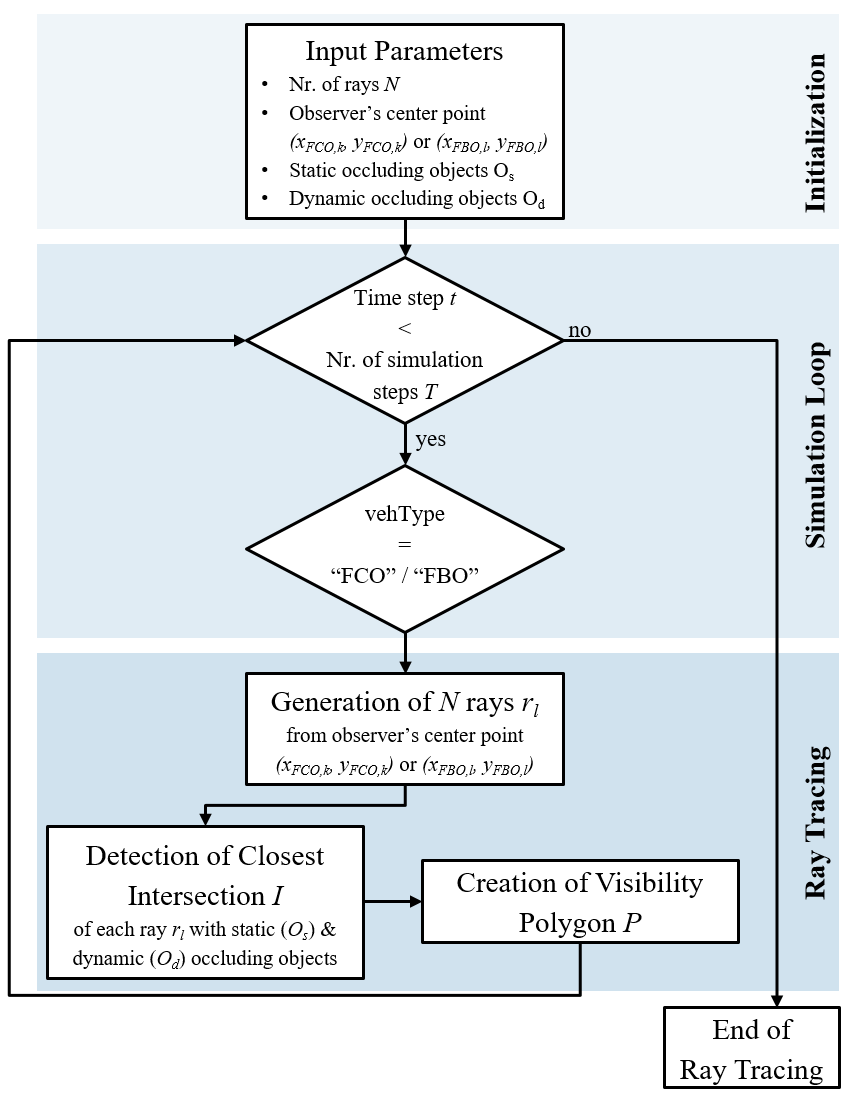
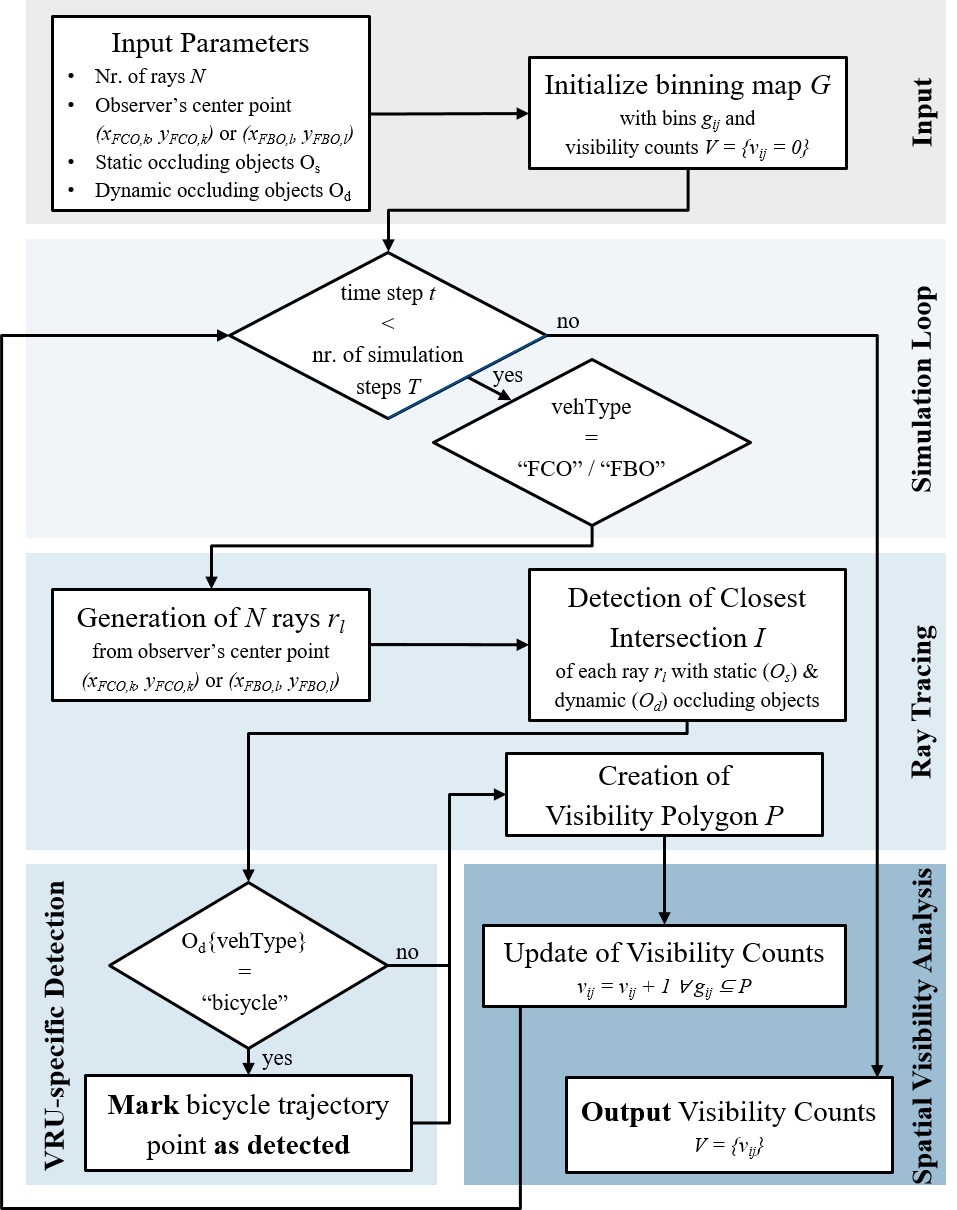
readme

diff --git a/README.md b/README.md
@@ -1,14 +1,20 @@
 # FTO-Sim
 
+## Introduction
+
 *FTO-Sim* is an open-source simulation framework for Floating Traffic Observation (FTO) that integrates SUMO traffic simulation with advanced ray tracing techniques to analyze the visibility coverage of Floating Car Observers (FCOs) and Floating Bike Observers (FBOs) in urban environments. The framework enables comprehensive evaluation of cooperative perception systems and their effectiveness in detecting vulnerable road users.
 
 The FTO concept is adapted from the Floating Car Observer (FCO) method, utilizing extended floating car data (xFCD) for traffic planning and traffic management purposes. Additionally, *FTO-Sim* introduces further observer vehicle types, such as Floating Bike Observers (FBO).
+
+## About This Documentation
+
+This README file serves as comprehensive documentation for *FTO-Sim*, combining methodological explanations of the framework with practical user instructions. It provides detailed descriptions of the ray tracing algorithm and subsequent evaluation metrics, alongside step-by-step configuration guides, usage examples, and implementation details.
 
 ## Table of Contents
 1. [Citation](#citation)
 2. [Features](#features)
 3. [Configuration](#configuration)
-4. [Ray Tracing Methodology](#ray-tracing-methodology)
+4. [Ray Tracing](#ray-tracing)
 5. [Data Collection and Logging](#data-collection-and-logging)
 6. [Evaluation Metrics](#evaluation-metrics)
 7. [Installation / Prerequisites](#installation--prerequisites)
@@ -20,155 +26,203 @@ The FTO concept is adapted from the Floating Car Observer (FCO) method, utilizin
 ## Citation
 When using *FTO-Sim*, please cite the following references:
 
-### Primary Citation
-* **Ilic, L., et al.** "FTO-Sim: An Open-Source Framework for Evaluating Cooperative Perception in Urban Areas." *European Transport Research Review*, 2024. *(Publication pending)*
+### Primary Reference
 
-This paper provides the comprehensive methodological foundation of the FTO-Sim framework, including detailed descriptions of the ray tracing algorithms, cooperative perception analysis, and validation studies.
+* **Ilic, M., et al.** "FTO-Sim: An Open-Source Framework for Evaluating Cooperative Perception in Urban Areas." *European Transport Research Review*, 2024. *(Publication pending - [Link will be available upon publication])*
+
+This paper presents the current version of the FTO-Sim framework with comprehensive methodological foundations and explanations about implemented evaluation metrics. Besides *spatial visibility analysis*, additional evaluation metrics, including *VRU-specific detection*, are implemented and described. Furthermore, the paper introduces simulation examples included in *FTO-Sim*, that enable a fast applpication of the simulation framework for other users.
 
 ### Secondary References
-* [Introduction of FTO-Sim](https://www.researchgate.net/publication/383272173_An_Open-Source_Framework_for_Evaluating_Cooperative_Perception_in_Urban_Areas) includes a detailed description of the general features of the simulation framework. Furthermore, a first application (visibility analysis) of *FTO-Sim* is included to further calibrate the Level of Visibility (LoV) metric, originally introduced by [Pechinger et al.](https://www.researchgate.net/publication/372952261_THRESHOLD_ANALYSIS_OF_STATIC_AND_DYNAMIC_OCCLUSION_IN_URBAN_AREAS_A_CONNECTED_AUTOMATED_VEHICLE_PERSPECTIVE).
+
+* [**Ilic, M., et al.**](https://www.researchgate.net/publication/383272173_An_Open-Source_Framework_for_Evaluating_Cooperative_Perception_in_Urban_Areas) "An Open-Source Framework for Evaluating Cooperative Perception in Urban Areas." *Transportation Research Board 104th Annual Meeting*, Washington D.C., 2025. *(Accepted for presentation)*
+
+This paper introduces the initial version of FTO-Sim with a first implementation of spatial visibility analysis metrics. It presents the foundational occlusion modeling approach and demonstrates the framework's capability for analyzing relative visibility patterns and the Level of Visibility (LoV),  originally introduced by [Pechinger et al.](https://www.researchgate.net/publication/372952261_THRESHOLD_ANALYSIS_OF_STATIC_AND_DYNAMIC_OCCLUSION_IN_URBAN_AREAS_A_CONNECTED_AUTOMATED_VEHICLE_PERSPECTIVE). Through a case study, potential for further calibration of the LoV metric have been identified.
 
 ## Features
-The following sub-chapters elaborate on the different modules and functionalities of *FTO-Sim*, which are summarized in the figure below.
+The following sub-chapters elaborate on the different modules and functionalities of *FTO-Sim*, which are organized in a modular workflow as illustrated in the figure below.
 
-![Overview of the FTO-Sim Framework Architecture](readme_images/framework_features.png)
+![FTO-Sim Framework Architecture](readme_images/framework_features.png)
+*Figure 1: Workflow of FTO-Sim*
 
-### Core Functionality
-- **SUMO Integration**: Seamless connection to SUMO traffic simulation via TraCI
-- **Ray Tracing Engine**: Advanced visibility analysis with configurable parameters
-- **Multi-Observer Support**: FCO and FBO observer types with customizable penetration rates
-- **Geospatial Data Integration**: Support for OpenStreetMap and GeoJSON road network data
-- **Performance Optimization**: Multi-threading and optional GPU acceleration support
-- **Comprehensive Data Logging**: Detailed simulation metrics and trajectory data export
+### Framework Modules
 
-### Input Data
+The FTO-Sim framework consists of six core modules that work together to provide comprehensive cooperative perception analysis:
 
-*FTO-Sim* makes use of three different input data types:
+#### 1. Input Data Processing
+*FTO-Sim* integrates three primary data sources to create and visualize a comprehensive urban simulation scene:
 
-1. **SUMO Simulation Files**
-   - Network files (`.net.xml`)
-   - Route/demand files (`.rou.xml`) 
-   - Configuration files (`.sumocfg`)
-   - Additional infrastructure files (`.add.xml`)
-   
-   SUMO and its interface TraCI (Traffic Control Interface) are used to retrieve the location of every static and dynamic road user for each time step of the simulation. Parked vehicles are considered static road users, while vehicular traffic, as well as VRUs (pedestrians and cyclists), are considered dynamic road users.
+- **SUMO Simulation**: *FTO-Sim* communicates with a microscopic traffic simulation using SUMO and its integrated TraCI interface (Traffic Control Interface) to retrieve the positions of all static and dynamic road users at each simulation time step. Parked vehicles are treated as static road users, while vehicular traffic and VRUs are treated as dynamic road users. *FTO-Sim* is expecting the path to a SUMO configuration file (`.sumocfg`), which it will use for live communication with the traffic simulation through the TraCI interface to retrieve information from the SUMO network file (`.net.xml`), traffic demand files (`.rou.xml`) and additional files (`.add.xml`).
 
-2. **OpenStreetMap (OSM) Data**
-   - Building geometries and locations
-   - Urban greenery (parks, trees)
-   - Traffic infrastructure elements
-   
-   Shapes and locations of static infrastructure elements, such as buildings, are retrieved from OSM. Furthermore, shapes and locations of urban greenery, such as parks and trees, are obtained from OSM.
+- **OpenStreetMap (OSM) Data**: Additionally, *FTO-Sim* loads static infrastructure elements, such as buildings or urban greenery (e.g. parks and trees) from OSM, which will be considered during the ray tracing simulation (see [Ray Tracing](#ray-tracing)).
 
-3. **GeoJSON Files** *(optional)*
-   - Road space distribution visualization
-   - Carriageways, parking areas, bicycle lanes
-   - Pedestrian walkways
-   
-   If available, *FTO-Sim* makes use of GeoJSON files containing the road space distribution of the simulated scene for visualization purposes only.
+- **GeoJSON Files** *(optional)*: If available, a GeoJSON file can be used by *FTO-Sim* to visualize the distribution of road space to support a faster understanding of the simulated scene.
+
+#### 2. Coordinate Transformation
+After loading all spatial input data, *FTO-Sim* performs automated coordinate system transformations to ensure spatial consistency between different data sources. This module handles conversions between SUMO's local coordinate system, WGS84 geographic coordinates (from OSM and GeoJSON), and projected coordinate systems (UTM) for accurate geometric calculations.
+
+#### 3. Configuration & Initialization
+*FTO-Sim* offers a wide range of functionalities and allows customization of, amongst others, essential simulation parameters such as the spatial extent of the simulated scene (bounding box), warm-up duration of the SUMO simulation, observer penetration rates, and the number and length of rays generated during ray tracing. Based on this user-defined configuration (see [Configuration](#configuration)), *FTO-Sim* initializes the simulation and performs the ray tracing method for every observer vehicle.
+
+#### 4. Ray Tracing Engine
+Based on the provided input data and configuration settings, *FTO-Sim* performs the ray tracing method for every observer vehicle (FCO and FBO) to determine the final field of view (FoV) of each observer. The module performs 360-degree ray generation around observer vehicles and intersects each ray with static (buildings, trees, etc.) and dynamic objects (other road users) to account for occlusion effects in the simulated scene.
+
+Key configurable features include (see [Usage](#usage)):
+- **Ray Parameters**: Number of rays (e.g., 360 rays for 1° resolution) and maximum ray length (typically set to 30 meters)
+- **Performance Options**: Multi-threaded processing with optional GPU acceleration
+- **Visualization Capabilities**: Real-time ray tracing visualization during run-time or video generation and saving for later demonstration purposes
+
+Connecting the endpoints of all (occluded and non-occluded) rays forms the visibility polygon, which reresents the final FoV of an observer vehicle. For detailed methodological explanations of the ray tracing nodule, ray intersection, and visibility polygon generation, see [Ray Tracing](#ray-tracing).
+
+#### 5. Data Logging
+The comprehensive data collection system captures detailed simulation values throughout the ray tracing process. *FTO-Sim* generates multiple structured CSV log files, each containing specific data categories for comprehensive analysis. Data is logged in real-time during simulation with consistent coordinate systems (UTM) and temporal resolution.
+
+**Generated Log Files:**
+
+- **`summary_log_*.csv`**: Simulation overview with configuration parameters, overall simulation statistics and performance metrics
+- **`log_fleet_composition_*.csv`**: Vehicle fleet composition with number of generated and currently in the simulation present vehicles per vehicle type (for each simulation time step)
+- **`log_vehicle_trajectories_*.csv`**: Motorized vehicle trajectory data including position, speed, acceleration, distance traveled, distance to leader/follower vehicles, distance to next traffic light and detection information (for each time step)
+- **`log_bicycle_trajectories_*.csv`**: Bicycle trajectory data including position, speed, acceleration, distance traveled, distance to next traffic light and detection information (for each time step)
+- **`log_detections_*.csv`**: Detection events between observers and bicycles including coordinates, distances, and vehicle speeds (of observers and observed road users)
+- **`log_traffic_lights_*.csv`**: Traffic light information including phases, queue lengths, waiting times, and signal state changes (for each time step)
+- **`log_conflicts_*.csv`**: SUMO-native conflict analysis data including time-to-collision (TTC), post-encroachment-time (PET), and deceleration to avoid crash (DRAC) metrics
+
+For detailed information about data analysis and processing, see [Data Collection and Logging](#data-collection-and-logging).
+
+#### 6. Evaluation Metrics
+Post-processing analysis modules that generate evaluation metrics from logged simulation data (see [Evaluation Metrics](#evaluation-metrics)):
+
+- **Spatial Visibility Analysis**: Generates heat maps and statistical measures of visibility coverage across the study area, including relative visibility patterns and level of visibility (LoV) assessments.
+
+- **VRU-Specific Detection**: Analyzes detection performance for VRUs including spatio-temporal detection rates and a specific focus to critical interaction areas.
 
 ## Configuration
 
 *FTO-Sim* offers users a wide range of functionalities that can be individually configured before initializing the framework. This enables a customized use of the offered functionalities, depending on the individual needs of users. All configuration is done by editing the [`main.py`](Scripts/main.py) script.
 
-### Essential Settings
+### General Settings
 
-#### Observer Configuration
+#### Simulation Identification Settings
 ```python
-# Observer penetration rates (0.0 to 1.0)
-FCO_share = 0.25    # 25% of vehicles become FCOs
-FBO_share = 0.10    # 10% of bicycles become FBOs
+# Change this tag to distinguish different simulation runs with e.g. same configuration
+file_tag = 'individual_tag'  # outputted files will be tagged with "_{file_tag}_FCO{FCO-penetration-rate}_FBO{FBO-penetration-rate}"
 ```
 
-Every generated vehicle and/or bicycle in the SUMO simulation is assigned a random number from a uniform distribution ranging between [0, 1]. If this number is below the defined FCO/FBO penetration rate, the vehicle or bicycle is assigned the vehicle type 'floating car observer' or 'floating bike observer', respectively.
-
-#### Ray Tracing Parameters
+#### Performance Optimization Settings
 ```python
-numberOfRays = 360          # Number of rays per observer (higher = more precise)
-radius = 30                 # Maximum ray tracing distance in meters
-grid_size = 10              # Grid size for visibility heat map (meters)
+# Choose performance optimization level based on your system capabilities:
+# - "none": Single-threaded processing (best performing for very small scenarios)
+# - "cpu": Multi-threaded CPU processing (best performing for intermediate scenarios)
+# - "gpu": CPU multi-threading + GPU acceleration (best performing for large scenarios, requires NVIDIA GPU with CUDA/CuPy)
+performance_optimization_level = "cpu"
+max_worker_threads = None  # None = auto-detect optimal thread count, or specify number (e.g., 4, 8)
 ```
 
-#### Study Area Definition
+#### Path Settings
 ```python
-# Bounding box coordinates (WGS84 format)
-north, south, east, west = 48.1505, 48.14905, 11.5720, 11.5669
+base_dir = os.path.dirname(os.path.abspath(__file__))
+parent_dir = os.path.dirname(base_dir)
+# Path to SUMO config-file
+sumo_config_path = os.path.join(parent_dir, 'simulation_examples', 'Ilic_ETRR_single-FCO', 'osm_small_3d.sumocfg') # Ilic_ETRR_2025
+# Path to GeoJSON fle (optional)
+geojson_path = os.path.join(parent_dir, 'simulation_examples', 'Ilic_ETRR_single-FCO', 'TUM_CentralCampus.geojson') # Ilic_ETRR_2025
+```
+
+#### Geographic Bounding Box Settings
+```python
+# Geographic boundaries in longitude / latitude in EEPSG:4326 (WGS84)
+north, south, east, west = 48.15050, 48.14905, 11.57100, 11.56790 # Ilic_ETRR_2025
 bbox = (north, south, east, west)
 ```
 
-#### Simulation Timing
+#### Simulation Warm-up Settings
 ```python
-delay = 90          # Warm-up period in seconds
+delay = 0  # Warm-up time in seconds (no ray tracing during this period)
 ```
 
-#### File Paths
+### Ray Tracing Settings
+
+#### Observer Penetration Rate Settings
 ```python
-# Path Settings
-base_dir = os.path.dirname(os.path.abspath(__file__))
-parent_dir = os.path.dirname(base_dir)
-sumo_config_path = os.path.join(parent_dir, 'simulation_examples', 'example', 'osm.sumocfg')
-geojson_path = os.path.join(parent_dir, 'simulation_examples', 'example', 'roads.geojson')
+FCO_share = 1.0  # Floating Car Observers penetration rate (0.0 to 1.0)
+FBO_share = 0.0  # Floating Bike Observers penetration rate (0.0 to 1.0)
 ```
 
-### Visualization Options
+#### Ray Tracing Parameter Settings
 ```python
-useLiveVisualization = True         # Enable real-time visualization
-visualizeRays = False              # Show individual rays
-saveAnimation = False              # Export animation video
-useManualFrameForwarding = False   # Step-by-step debugging mode
+numberOfRays = 360  # Number of rays emerging from each observer vehicle
+radius = 30         # Ray radius in meters
+grid_size = 10      # Grid size for spatial visibility analysis (meters) - determines the resolution of LoV and realtive visibility heatmaps
 ```
 
-### Performance Settings
+### Visualization Settings
 ```python
-performance_optimization_level = 'cpu'  # Options: 'none', 'cpu', 'gpu'
-max_worker_threads = 4                   # Multi-threading configuration
+useLiveVisualization = True       # Show live visualization during simulation
+visualizeRays = True              # Show individual rays in visualization (besides resulting visibility polygon)
+useManualFrameForwarding = False  # Manual frame-by-frame progression (for debugging)
+saveAnimation = False             # Save animation as video file
 ```
 
-Available optimization levels:
-- **`'none'`**: Single-threaded processing (most compatible, but slower)
-- **`'cpu'`**: Multi-threaded CPU processing (recommended default)
-- **`'gpu'`**: CPU multi-threading + GPU acceleration (fastest, requires NVIDIA GPU with CUDA/CuPy)
+### Data Collection & Analysis Settings
 
-### Data Collection Settings
+#### Data Collection Settings
 ```python
 CollectLoggingData = True    # Enable detailed data logging
-file_tag = 'baseline_test'   # Unique identifier for simulation outputs
+basic_gap_bridge = 10        # Gap bridging for trajectory smoothing
+basic_segment_length = 3     # Minimum segment length for trajectories
 ```
 
-## Ray Tracing Methodology
+## Ray Tracing
 
-Based on the provided input data and configuration settings, *FTO-Sim* is initiated and performs the ray tracing method for every FCO and FBO. The following figure shows the working principle of the ray tracing method.
+Based on the input data provided and the configuration settings, the simulation framework is initiated and performs the ray tracing method for every FCO and FBO. In parallel, a binning map approach is used to update the visibility count of each bin included within an observer's FoV at every simulation time step. An overview of the ray tracing method and internal data gathering for subsequent evaluation purposes (spatial visibility analysis and VRU-specific detection) is given in the following figure.
 
 ![Ray Tracing Workflow](readme_images/ray_tracing_flowchart.png)
+*Figure 2: Workflow of the Ray Tracing Method*
 
-### Observer Detection Process
+### Methodology
 
-1. **Observer Assignment**: Vehicles and bicycles are randomly assigned observer roles based on configured penetration rates using a fixed random seed for reproducible results
+#### Initialization
+When initializing the ray tracing method, *FTO-Sim* loads the required input parameters and sets up a binning map that divides the simulated scene into equally sized squares, with each bin's visibility count initially set to zero. Besides the number and length of rays descending from an observer's center point, the bin size, which determines the resolution of the subsequent spatial visibility analyses, can be configured by the user (see [Configuration](#configuration)).
 
-2. **Ray Generation**: Each observer generates rays distributed in a 360° pattern within a specified radius:
-   - FCOs (Floating Car Observers): Passenger vehicles with observer capabilities
-   - FBOs (Floating Bike Observers): Bicycles with observer capabilities
+#### Simulation Loop and Observer Assignment
+Once the simulation loop starts, *FTO-Sim* checks the vehicle type of each road user within the predefined bounding box at each time step. After the warm-up phase and according to the specified FCO / FBO penetration rates, vehicles or bicycles are assigned the vehicle type 'floating car observer' or 'floating bike observer', thereby activating the ray tracing.
 
-3. **Occlusion Detection**: Rays are tested for intersections with:
-   - **Static objects**: Buildings, trees, barriers, infrastructure
-   - **Dynamic objects**: Moving vehicles, parked cars
+**Observer Types and Assignment Process:**
+Every generated vehicle and/or bicycle in the SUMO simulation is assigned a random number from a uniform distribution ranging between [0, 1]. If this number is below the defined FCO/FBO penetration rate, the vehicle or bicycle is assigned the vehicle type 'floating car observer' or 'floating bike observer', respectively.
+1. **FCOs (Floating Car Observers)**: Assignment of passenger cars based on configured FCO penetration rate using a fixed seed value for reproducible results
+2. **FBOs (Floating Bike Observers)**: Assignment of bicycles based on configured FBO penetration rate using a fixed seed value for reproducible results
 
-4. **Visibility Polygon Creation**: Ray endpoints form visibility polygons representing observable areas
+### Ray Tracing Algorithm
 
-Once the **simulation loop** is initiated, *FTO-Sim* will check the vehicle type of every road user within the previously defined bounding box for each time step of the simulation. After the initially defined warm-up phase and depending on the defined FCO / FBO penetration rates, vehicles or bicycles with the vehicle type 'floating car observer' or 'floating bike observer' will be randomly generated and thus activating the ray tracing.
+#### Ray Generation and Intersection Detection
+For each observer, the ray tracing module generates the previously configured number of rays descending from the observer's center point and extending up to the previously defined length of the rays (representing the theoretical detection range of an observer). The angle between the rays is equivalently sized to generate a non-occluded FoV around the observer. Rays intersecting with static or dynamic objects are cut to account for occlusion, and the endpoints of all rays are connected to form the visibility polygon representing the observer’s total FoV.
 
-The **ray tracing module** will generate the previously defined number of rays descending from every observer's center point up to a distance of 30 meters. The angle between the rays will be equivallently sized to generate a non-occluded field of view (FoV) in a circular form around the observer. Subsequently, the rays that intersect with static or dynamic objects are cut to obtain an observer's occluded FoV. Lastly, the endpoints of all rays are connected to create an observer's visibility polygon representing the area within an observer's total FoV.
+**Key Processing Steps:**
+1. **Ray Generation**: Each observer generates rays distributed in a 360° pattern within the specified radius (typically 30 meters)
+2. **Occlusion Detection**: Rays are systematically tested for intersections with:
+   - **Static objects**: Parked vehicles, obtained from SUMO, as well as buildings, trees, and further infrastructure elements obtained from OSM
+   - **Dynamic objects**: Road users (motorized vehicles and VRUs) obtained from SUMO
+3. **Ray Intersection**: Rays intersecting with static or dynamic objects are cut to account for occlusion effects
+4. **Visibility Polygon Creation**: The endpoints of all rays (both occluded and non-occluded) are connected to form the visibility polygon representing the observer's total FoV
 
-The following figure shows a visualization of the ray tracing method, both for FCOs (left) and FBOs (right). The rays emerging from the centerpoint of an observer are colored in blue when they are unobstructed and in red when they intersect with objects.
+#### Internal Data Collection for Spatial Visibility Analysis
+For spatial visibility analyses, the framework updates the binning map by increasing the visibility count of each bin within an observer's total FoV.
+
+#### Internal Data Collection for VRU-specific Detection
+If a ray intersects a dynamic object, the framework checks the object's vehicle type. If the object is a bicycle or pedestrian, the corresponding trajectory point is marked as detected for subsequent evaluation of VRU-specific detection.
+
+#### Internal Data Logging
+At the end of the simulation loop, the final visibility counts and marked bicycle trajectories are obtained.
+
+### Visualization and Output
+
+In addition to the numerical output, the framework offers flexible visualization options for the ray tracing method. Users can enable live visualization to directly observe the influence of static and dynamic occlusions on observer’s FoVs during runtime. Alternatively, the visualization can be exported as a video file, which allows for later inspection of detection events and facilitates communication of results. (see [Configuration](#configuration))
+
+A visualization of the ray tracing method is provided in Figure 3. The rays emerging from the center point of an observer are colored blue when they are unobstructed, and red when they intersect with objects.
 
 ![Ray Tracing Visualization](readme_images/ray_tracing.png)
+*Figure 3: Ray Tracing Visualization for an FCO (left) and an FBO (right)*
 
-### Field of View Calculation
-
-The framework calculates circular fields of view around each observer, accounting for:
-- **Static Occlusion**: Buildings, infrastructure elements from OpenStreetMap
-- **Dynamic Occlusion**: Moving and parked vehicles from SUMO simulation
-- **Observer Height**: Different visibility characteristics for cars vs. bicycles
+The left sub-figure illustrates an FCO with its FoV obstructed from the VRU infrastructure by parked vehicles, while the right sub-figure shows the same situation from the perspective of an FBO, whose FoV instead covers the VRU  infrastructure but is obstructed from the vehicular carriageway.
 
 ## Data Collection and Logging
 
